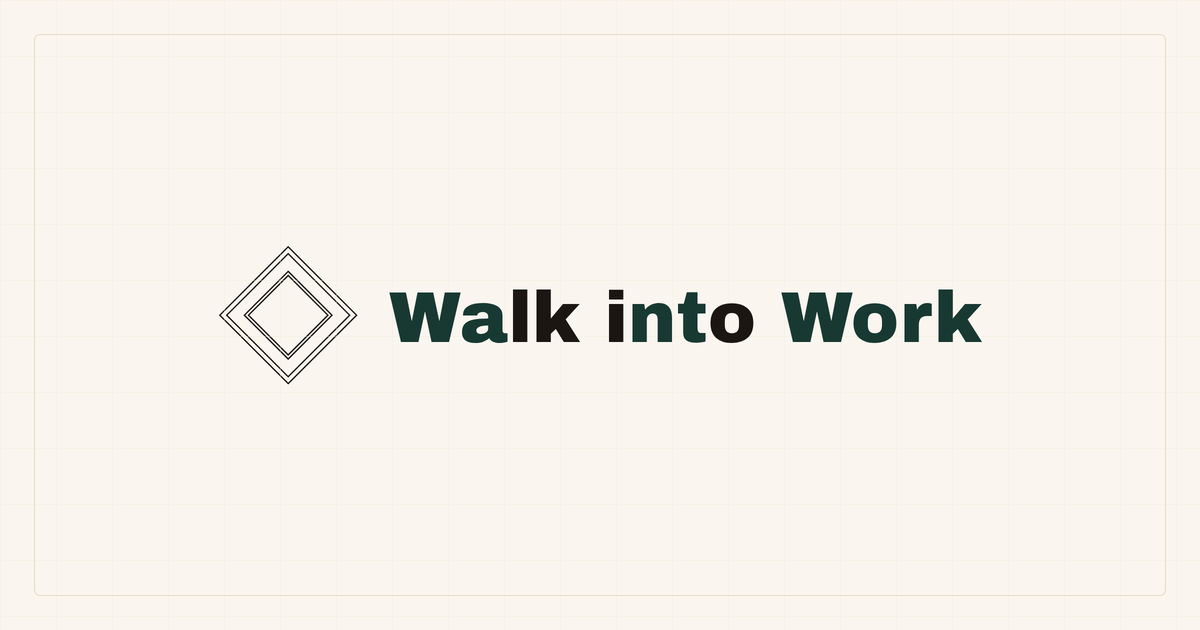
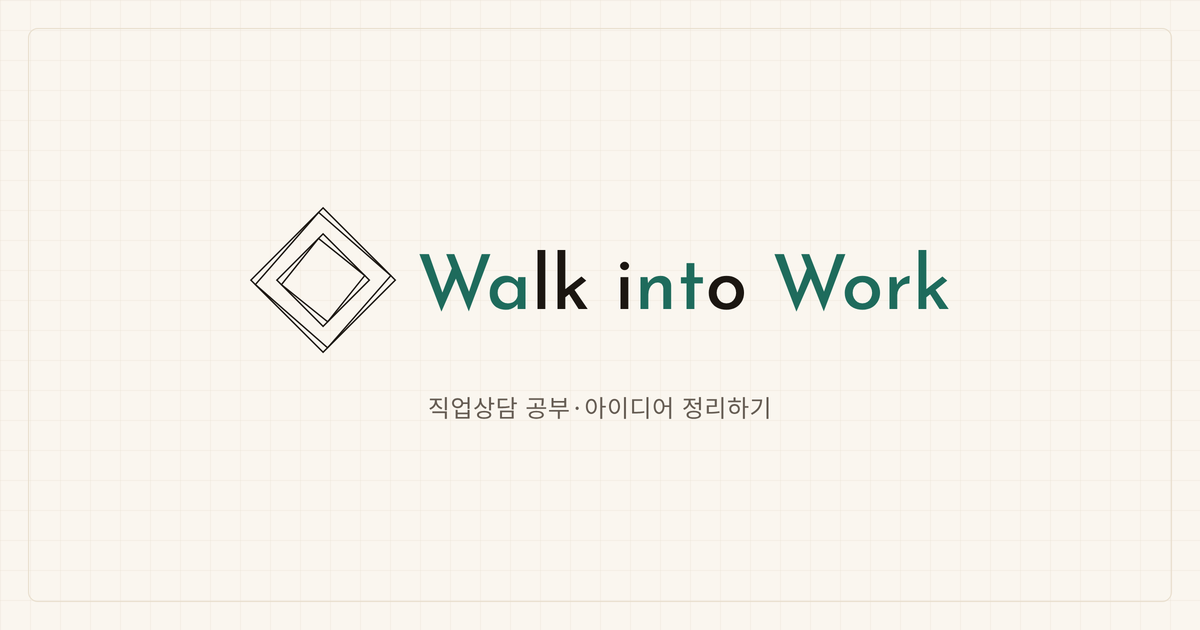
✨ Want Work 대문자화 + 링크 미리보기 카드 새 로고로 재생성
- 방치 모션 목표를 `Want work`에서 `Want Work`로. 소문자 w 겹(.cctt-gw)을 걷어 내고 Work의 대문자 W를 그대로 쓴다 — W·o·r·k가 한 덩어리로 -1.896em 옮겨 간다.
- 자리표를 Josefin Sans 500 폰트 단위(unitsPerEm 1000)로 다시 쟀다: W 1011 · a 592 · l 260 · k 508 · i 260 · n 561 · t 366 · o 550 · r 383 · 띄어쓰기 318, 커닝 W|a·W|o -93. Walk into Work 7.010em / Want Work 5.114em.
- 글자 칸 폭을 advance 그대로 em으로 못박아 inline-block 정수 px 반올림(37px에서 1.5px)을 없앴다.
- assets/og-card.png를 확정 로고(네 겹 마름모 + Josefin Sans 500, 0.26em)로 1200×630 재생성.

diff --git a/index.html b/index.html
@@ -166,20 +166,31 @@ body.a-root{background:var(--bg);color:var(--ink);font-family:var(--sans);font-s
 .cctt-word[data-run] .cctt-flow{visibility:hidden}
 .cctt-word[data-run] .cctt-glyphs{visibility:visible}
 .cctt-g{display:inline-block;position:relative;transform-origin:50% 50%}
-.cctt-sp{}   /* 띄어쓰기 칸 — 글자 그대로 둔다(빈 inline-block은 줄 상자를 0.145em 키운다) */
+.cctt-sp{display:inline-block;width:.318em}   /* 띄어쓰기 칸 — 글자 그대로 둔다(빈 inline-block은 줄 상자를 0.145em 키운다) */
+/* 글자 칸 폭을 폰트 advance 그대로 못박는다(em). 폭을 글자에 맡기면 브라우저가 inline-block 폭을 정수 px로
+   반올림해 37px 로고에서 자리가 1.5px까지 밀린다 — 방치 모션이 끝난 그림이 한 줄 텍스트와 어긋나 보이는 원인.
+   W 1011 · a 592 · l 260 · k 508 · i 260 · n 561 · t 366 · o 550 · r 383 (unitsPerEm 1000). */
+.cctt-g[data-k="0"],.cctt-g[data-k="8"]{width:1.011em}
+.cctt-g[data-k="1"]{width:.592em}
+.cctt-g[data-k="2"],.cctt-g[data-k="4"]{width:.26em}
+.cctt-g[data-k="3"],.cctt-g[data-k="11"]{width:.508em}
+.cctt-g[data-k="5"]{width:.561em}
+.cctt-g[data-k="6"]{width:.366em}
+.cctt-g[data-k="7"],.cctt-g[data-k="9"]{width:.55em}
+.cctt-g[data-k="10"]{width:.383em}
 .cctt-k1{margin-left:-.093em}   /* W|a */
 .cctt-k9{margin-left:-.093em}   /* W|o */
 .cctt-word[data-run] .cctt-g{will-change:transform,opacity}
-.cctt-gw{position:absolute;left:0;top:0;opacity:0}   /* Work의 W 자리에 겹쳐 두는 소문자 w — Want work로 변할 때만 나타난다 */
-/* 글자 칸(transform)과 잉크(opacity)를 나눈다 — 칸이 투명해지면 그 안의 w까지 함께 사라지기 때문이다. */
+/* `Want Work`는 대문자 W를 그대로 쓴다 — Work의 W를 소문자 w로 갈아 끼우던 겹(.cctt-gw)은 2026-11-21에 걷어 냈다.
+   W는 처음부터 끝까지 같은 글자라, 방치 모션은 글자가 사라지고 나타나는 대신 **자리만 옮겨 간다**. */
 /* 방치 모션의 조연 — 커서(①) · 빛줄기(②) · 취소선(⑩). 자리는 em으로 못박아 둔다(글자 크기를 따라간다). */
 .cctt-care,.cctt-beam,.cctt-str{position:absolute;left:0;top:0;opacity:0;pointer-events:none}
 .cctt-care{width:max(1.5px,.05em);height:.76em;top:.13em;background:currentColor;border-radius:1px}
 .cctt-beam{width:.42em;height:1.06em;top:-.03em;background:linear-gradient(90deg,transparent,var(--logo-hi) 50%,transparent)}
 .cctt-str{height:max(1px,.035em);top:.56em;background:currentColor;transform-origin:0 50%}
-.cctt-s1{left:1.50967em;width:.76769em}
-.cctt-s2{left:2.59519em;width:.25984em}
-.cctt-s3{left:3.78172em;width:.54983em}
+.cctt-s1{left:1.51em;width:.768em}    /* l · k */
+.cctt-s2{left:2.596em;width:.26em}    /* i */
+.cctt-s3{left:3.783em;width:.55em}    /* o */
 .a-right{display:flex;align-items:center;gap:8px;flex:none;margin-left:auto}
 .a-status{display:flex;align-items:center;gap:7px;font-size:13px;color:var(--muted);white-space:nowrap}
 .a-status .a-live-t{font-weight:650;letter-spacing:-.01em;color:var(--muted)}
@@ -818,7 +829,7 @@ html:not([data-jc-imm]) .a-seen-stamp:not([hidden]){animation:a-thunk .42s cubic
         <svg class="cctt-mark" viewBox="0 0 274 274" focusable="false"><g class="cctt-dg cctt-dg-o"><path d="M137 3.5L270.5 137L137 270.5L3.5 137Z"/><path d="M137 11.5L262.5 137L137 262.5L11.5 137Z" transform="rotate(-3.78 137 137)"/></g><g class="cctt-dg cctt-dg-i"><path d="M137 51.5L222.5 137L137 222.5L51.5 137Z"/><path d="M137 59.5L214.5 137L137 214.5L59.5 137Z" transform="rotate(-6.27 137 137)"/></g></svg>
         <!-- 한 줄 로고 — 멈춘 그림은 R4 그대로의 한 줄 텍스트(.cctt-flow)이고,
              방치 모션 동안에만 글자 한 칸짜리 겹(.cctt-glyphs)을 그 위에 세운다. -->
-        <span class="cctt-word"><span class="cctt-flow"><span class="cctt-hi">Wa</span>lk i<span class="cctt-hi">nt</span>o <span class="cctt-hi">Work</span></span><span class="cctt-glyphs"><span class="cctt-g cctt-hi" data-k="0">W</span><span class="cctt-g cctt-hi cctt-k1" data-k="1">a</span><span class="cctt-g" data-k="2">l</span><span class="cctt-g" data-k="3">k</span><span class="cctt-sp">&#160;</span><span class="cctt-g" data-k="4">i</span><span class="cctt-g cctt-hi" data-k="5">n</span><span class="cctt-g cctt-hi" data-k="6">t</span><span class="cctt-g" data-k="7">o</span><span class="cctt-sp">&#160;</span><span class="cctt-g" data-k="8"><span class="cctt-w1 cctt-hi">W</span><span class="cctt-gw cctt-hi">w</span></span><span class="cctt-g cctt-hi cctt-k9" data-k="9">o</span><span class="cctt-g cctt-hi" data-k="10">r</span><span class="cctt-g cctt-hi cctt-k11" data-k="11">k</span><span class="cctt-care"></span><span class="cctt-beam"></span><span class="cctt-str cctt-s1"></span><span class="cctt-str cctt-s2"></span><span class="cctt-str cctt-s3"></span></span></span>
+        <span class="cctt-word"><span class="cctt-flow"><span class="cctt-hi">Wa</span>lk i<span class="cctt-hi">nt</span>o <span class="cctt-hi">Work</span></span><span class="cctt-glyphs"><span class="cctt-g cctt-hi" data-k="0">W</span><span class="cctt-g cctt-hi cctt-k1" data-k="1">a</span><span class="cctt-g" data-k="2">l</span><span class="cctt-g" data-k="3">k</span><span class="cctt-sp">&#160;</span><span class="cctt-g" data-k="4">i</span><span class="cctt-g cctt-hi" data-k="5">n</span><span class="cctt-g cctt-hi" data-k="6">t</span><span class="cctt-g" data-k="7">o</span><span class="cctt-sp">&#160;</span><span class="cctt-g cctt-hi" data-k="8">W</span><span class="cctt-g cctt-hi cctt-k9" data-k="9">o</span><span class="cctt-g cctt-hi" data-k="10">r</span><span class="cctt-g cctt-hi cctt-k11" data-k="11">k</span><span class="cctt-care"></span><span class="cctt-beam"></span><span class="cctt-str cctt-s1"></span><span class="cctt-str cctt-s2"></span><span class="cctt-str cctt-s3"></span></span></span>
       </span>
     </a>
     <div class="a-right">
@@ -2474,27 +2485,28 @@ window.JC_FS_SKIP = ((window.JC_FS_SKIP ? window.JC_FS_SKIP + ',' : '') + '.cctt
     var A=spin(1,0),B=spin(-1,80);
     return {defs:[[og,A[0],A[1]],[ig,B[0],B[1]]]};
   }
-  /* ================== 글자 모션 — `Walk into Work` ↔ `Want work` (2026-11-21 R5) ==================
+  /* ================== 글자 모션 — `Walk into Work` ↔ `Want Work` (2026-11-21 R5) ==================
      마름모 방치 모션 열 가지와 1:1로 짝을 이룬다 — 마름모가 움직이는 그 순간, 같은 play(i)에서
      같은 프레임에 시작해 4.6초 안에 다 돌아온다(방치 유도 data-st="hint"가 5.0초라 0.4초 여유).
-       등장 0~1.75초 · 머묾 1.75~2.95초(Want work를 읽는 시간) · 되돌아옴 2.95~4.4초.
+       등장 0~1.75초 · 머묾 1.75~2.95초(Want Work를 읽는 시간) · 되돌아옴 2.95~4.4초.
      · 되돌아오는 구간은 등장 구간을 **시간만 뒤집어** 만든다 — 같은 곡선을 반대로 쓰므로 손맛이 같고,
        저절로 「원래 자리·원래 글자」로 끝난다. 끝나면 애니메이션을 지우니 잔상이 남지 않는다.
-     · 자리표는 모두 em이다(Josefin Sans 500을 DOM에서 1000px로 재어 1000으로 나눈 값). 글자 크기가 어디서든 같은 비례를
-       따르고, 대문자 W의 왼쪽은 두 글자 모두 0em이라 **절대 움직이지 않는다**.
+     · 자리표는 모두 em이다(Josefin Sans 500의 폰트 단위 — unitsPerEm 1000 — 를 그대로 1000으로 나눈 값이라 반올림이 없다:
+       W 1011 · a 592 · l 260 · k 508 · i 260 · n 561 · t 366 · o 550 · r 383 · 띄어쓰기 318, 커닝 `W|a`·`W|o` −93).
+       글자 크기가 어디서든 같은 비례를 따르고, 맨 앞 대문자 W의 왼쪽은 두 줄 모두 0em이라 **절대 움직이지 않는다**.
+     · 목표 `Want Work`는 대문자 W를 그대로 둔다 — `Work`의 W·o·r·k가 한 덩어리로 −1.896em 옮겨 가고 l·k·i·o만 사라진다.
      · 움직이는 값은 transform·opacity뿐 — 레이아웃(left·width·margin)은 애니메이션하지 않는다. */
-  var W_RX=[0,.91783,1.50967,1.76952,2.27736,2.59519,2.85503,3.41587,3.78172,4.33155,4.64939,5.56723,6.11708,6.49991];  /* Walk into Work 글자 왼쪽(em) */
-  var W_TX=[0,.91783,1.50967,2.07052,2.43636,2.75419,3.41903,3.96887,4.35172];                                          /* Want work 글자 왼쪽(em) */
-  var W_W=7.00777,W_TW=4.85956;                            /* 두 줄 전체 폭(em) */
+  var W_RX=[0,.918,1.51,1.77,2.278,2.596,2.856,3.417,3.783,4.333,4.651,5.569,6.119,6.502];  /* Walk into Work 글자 왼쪽(em) */
+  var W_TX=[0,.918,1.51,2.071,2.437,2.755,3.673,4.223,4.606];                                        /* Want Work 글자 왼쪽(em) */
+  var W_W=7.01,W_TW=5.114;                                 /* 두 줄 전체 폭(em) */
   var W_IDX=[0,1,2,3,5,6,7,8,10,11,12,13];                 /* span 차례 → W_RX 자리 */
   var W_TO=[0,1,-1,-1,-1,2,3,-1,5,6,7,8];                  /* span 차례 → W_TX 자리(음수 = 지워지는 글자) */
-  var W_DX=[0,0,0,0,0,-1.34536,-1.34535,0,-1.8952,-2.1482,-2.14821,-2.14819];  /* 옮겨 갈 거리(em) */
+  var W_DX=[0,0,0,0,0,-1.346,-1.346,0,-1.896,-1.896,-1.896,-1.896];  /* 옮겨 갈 거리(em) */
   var W_E=1750,W_H=2950,W_X1=4400,W_T=4600;
   var wWord=document.querySelector('.cctt-word'),wG={},wOv={};
   if(wWord){
     var wN=wWord.querySelectorAll('.cctt-g'),wi0;
     for(wi0=0;wi0<wN.length;wi0++)wG[wN[wi0].getAttribute('data-k')]=wN[wi0];
-    wG.w=wWord.querySelector('.cctt-gw');wG.W=wWord.querySelector('.cctt-w1');
     wOv.care=wWord.querySelector('.cctt-care');wOv.beam=wWord.querySelector('.cctt-beam');
     wOv.s1=wWord.querySelector('.cctt-s1');wOv.s2=wWord.querySelector('.cctt-s2');wOv.s3=wWord.querySelector('.cctt-s3');
   }
@@ -2534,43 +2546,29 @@ window.JC_FS_SKIP = ((window.JC_FS_SKIP ? window.JC_FS_SKIP + ',' : '') + '.cctt
   }
   /* 되돌아오는 때 — 등장 시각 t를 머묾 끝 기준으로 뒤집은 시각 */
   function wBack(t){return W_H+(1-t/W_E)*(W_X1-W_H);}
-  /* opacity만 따로 — Work의 W가 w로 바뀌는 자리(움직임은 글자 칸이 맡는다) */
-  function wHide(t0,t1){
-    return [{offset:0,opacity:1},{offset:+(t0/W_T).toFixed(5),opacity:1,easing:'cubic-bezier(.4,0,.7,1)'},
-      {offset:+(t1/W_T).toFixed(5),opacity:0},{offset:+(wBack(t1)/W_T).toFixed(5),opacity:0,easing:'cubic-bezier(.4,0,.7,1)'},
-      {offset:+(wBack(t0)/W_T).toFixed(5),opacity:1},{offset:1,opacity:1}];
-  }
-  function wShow(t0,t1){
-    return [{offset:0,opacity:0},{offset:+(t0/W_T).toFixed(5),opacity:0,easing:'cubic-bezier(.4,0,.7,1)'},
-      {offset:+(t1/W_T).toFixed(5),opacity:1},{offset:+(wBack(t1)/W_T).toFixed(5),opacity:1,easing:'cubic-bezier(.4,0,.7,1)'},
-      {offset:+(wBack(t0)/W_T).toFixed(5),opacity:0},{offset:1,opacity:0}];
-  }
   /* 남는 글자 — 지워지는 글자가 사라진 뒤 목표 자리로 미끄러진다 */
   function wMove(i,from,to,fs,e){
     return [wK(0,'none',1),wK(from,'none',1),wK(to,wTx(W_DX[i],fs),1,e||'cubic-bezier(.5,0,.2,1)')];
   }
   function wOrg(){var o={},i;for(i=0;i<arguments.length;i++)o[arguments[i]]='0 50%';return o;}
   var WPAT=[
-  /* ① 반대 회전 ↔ 커서 백스페이스 — 커서가 오른쪽부터 톡톡 지우고 Want work를 다시 쳐 넣는다 */
+  /* ① 반대 회전 ↔ 커서 백스페이스 — 커서가 오른쪽부터 톡톡 지우고 Want Work를 다시 쳐 넣는다 */
   function(fs){
     var g={},fade={},del=[11,10,9,8,7,6,5,4,3,2],dt={},i,kd,f,tg,
-        typ=[5,6,'w',9,10,11],tt={},u=1080,t=70;
+        typ=[5,6,8,9,10,11],tt={},u=1080,t=70;
     for(i=0;i<del.length;i++){dt[del[i]]=t;t+=102;}
     for(i=0;i<typ.length;i++){tt[typ[i]]=u;u+=96;}
     for(i=0;i<12;i++){
       kd=dt[i];tg=wTx(W_DX[i],fs);
       if(kd==null){g[i]=[wK(0,'none',1)];continue;}
-      if(i===8){g[8]=[wK(0,'none',null),wK(500,'none',null),wK(640,tg,null)];continue;}
       f=[wK(0,'none',1),wK(kd,'none',1,'cubic-bezier(.4,0,.6,1)'),wK(kd+100,'none',0)];
       if(tt[i]!=null)f.push(wK(kd+104,tg,0),wK(tt[i],tg+' scale(.86)',0,'cubic-bezier(.2,.9,.3,1)'),wK(tt[i]+104,tg,1));
       g[i]=f;
     }
-    fade.W=wHide(dt[8],dt[8]+100);
-    fade.w=wShow(tt.w,tt.w+104);
     /* 커서 — 지울 때는 오른쪽→왼쪽, 쓸 때는 왼쪽→오른쪽 (칸을 뛰어 넘는다) */
     var cj=[[0,W_W]],px,cf=[],co;
     for(i=0;i<del.length;i++)cj.push([dt[del[i]],W_RX[W_IDX[del[i]]]]);
-    cj.push([tt[5],W_TX[3]],[tt[6],W_TX[4]],[tt.w,W_TX[5]],[tt[9],W_TX[6]],[tt[10],W_TX[7]],[tt[11],W_TX[8]],[tt[11]+100,W_TW]);
+    cj.push([tt[5],W_TX[3]],[tt[6],W_TX[4]],[tt[8],W_TX[5]],[tt[9],W_TX[6]],[tt[10],W_TX[7]],[tt[11],W_TX[8]],[tt[11]+100,W_TW]);
     for(i=0;i<cj.length;i++){
       px=wPx(cj[i][1],fs);
       cf.push({offset:+(cj[i][0]/W_T).toFixed(5),transform:'translateX('+px+'px)',easing:i<cj.length-1?'steps(1,end)':'linear'});
@@ -2602,8 +2600,6 @@ window.JC_FS_SKIP = ((window.JC_FS_SKIP ? window.JC_FS_SKIP + ',' : '') + '.cctt
       }
     }
     g[8]=[wK(0,'none',null),wK(700,'none',null),wK(1120,wTx(W_DX[8],fs),null)];
-    fade.W=wHide(1000,1100);
-    fade.w=wShow(1100,1200);
     var bf=[{offset:0,transform:'translateX('+wPx(-.9,fs)+'px)',opacity:0},
       {offset:+(160/W_T).toFixed(5),opacity:.5},
       {offset:+(820/W_T).toFixed(5),opacity:.5},
@@ -2613,9 +2609,9 @@ window.JC_FS_SKIP = ((window.JC_FS_SKIP ? window.JC_FS_SKIP + ',' : '') + '.cctt
       {offset:1,transform:'translateX('+wPx(W_W,fs)+'px)',opacity:0}];
     return {g:g,fade:fade,ov:{beam:bf},org:wOrg(2,3,4,7)};
   },
-  /* ③ 호흡 교차 ↔ 공항 플립 보드 — 박자마다 글자 칸이 찰칵찰칵 넘어가며 Want work로 바뀐다 */
+  /* ③ 호흡 교차 ↔ 공항 플립 보드 — 박자마다 글자 칸이 찰칵찰칵 넘어가며 Want Work로 바뀐다 */
   function(fs){
-    var g={},fade={},i,s0,sw,t0,t1;
+    var g={},fade={},i,s0,t0,t1;
     function flip(s0,op){
       return [wK(s0,'translateX(0px) rotateX(0deg)',op,'cubic-bezier(.4,0,.9,.6)'),
         wK(s0+22,'translateX(0px) rotateX(-90deg) scaleY(.62)',op==null?null:.6,'linear'),
@@ -2636,15 +2632,13 @@ window.JC_FS_SKIP = ((window.JC_FS_SKIP ? window.JC_FS_SKIP + ',' : '') + '.cctt
            wK(t1,wTx(W_DX[i],fs),1)]);
       }
     }
-    sw=60+8*42;
+    var sw=60+8*42;
     t0=sw+100;t1=Math.min(1450,t0+330);
     g[8]=[wK(0,'none',null)].concat(flip(sw,null),
       [wK(t0,'translateX(0px) rotateX(0deg) scaleY(1)',null,'cubic-bezier(.5,0,.2,1)'),wK(t1,wTx(W_DX[8],fs),null)]);
-    fade.W=wHide(sw+30,sw+80);
-    fade.w=wShow(sw+30,sw+80);
     return {g:g,fade:fade,org:wOrg(2,3,4,7)};
   },
-  /* ④ 엇박 반바퀴 ↔ 네온사인 오프 — lk·i·o의 불이 지직 꺼지고 Want work만 살아남는다 */
+  /* ④ 엇박 반바퀴 ↔ 네온사인 오프 — lk·i·o의 불이 지직 꺼지고 Want Work만 살아남는다 */
   function(fs){
     var g={},fade={},i,off=[2,3,4,7],ot={},t=90;
     for(i=0;i<off.length;i++){ot[off[i]]=t;t+=55;}
@@ -2663,8 +2657,6 @@ window.JC_FS_SKIP = ((window.JC_FS_SKIP ? window.JC_FS_SKIP + ',' : '') + '.cctt
       }
     }
     g[8]=[wK(0,'none',null),wK(480,'none',null),wK(1050,wTx(W_DX[8],fs),null)];
-    fade.W=wHide(900,1010);
-    fade.w=wShow(1010,1120);
     return {g:g,fade:fade};
   },
   /* ⑤ 위아래 결합 ↔ 엘리베이터 스왑 — lk·i·o는 위로 올라가 사라지고, nt·work는 살짝 내려왔다 올라와 앉는다 */
@@ -2687,8 +2679,6 @@ window.JC_FS_SKIP = ((window.JC_FS_SKIP ? window.JC_FS_SKIP + ',' : '') + '.cctt
     }
     g[8]=[wK(0,'none',null),wK(520,'translateY('+up+'px)',null,'cubic-bezier(.5,0,.2,1)'),
       wK(880,wTx(W_DX[8],fs)+' translateY('+wPx(-.08,fs)+'px)',null,'cubic-bezier(.2,.9,.3,1)'),wK(1040,wTx(W_DX[8],fs),null)];
-    fade.W=wHide(900,1010);
-    fade.w=wShow(1010,1120);
     return {g:g,fade:fade,leap:true};
   },
   /* ⑥ 획 그리기 ↔ 커닝 아코디언 — lk·i·o의 가로 폭이 0으로 접히며 글자가 압축된다
@@ -2706,8 +2696,6 @@ window.JC_FS_SKIP = ((window.JC_FS_SKIP ? window.JC_FS_SKIP + ',' : '') + '.cctt
       }
     }
     g[8]=[wK(0,'none',null),wK(220,'none',null,EZ),wK(880,wTx(W_DX[8],fs),null,EZ)];
-    fade.W=wHide(820,900);
-    fade.w=wShow(900,1010);
     return {g:g,fade:fade,org:wOrg(2,3,4,7)};
   },
   /* ⑦ 물결 ↔ 웨이브 콜랩스 — 물결이 지나간 자리의 lk·i·o는 아래로 가라앉고 나머지는 파도를 타고 합류 */
@@ -2731,8 +2719,6 @@ window.JC_FS_SKIP = ((window.JC_FS_SKIP ? window.JC_FS_SKIP + ',' : '') + '.cctt
     var s8=Math.max(220,hx[4]+40);
     g[8]=[wK(0,'none',null),wK(s8,'none',null,'cubic-bezier(.4,0,.6,1)'),
       wK(s8+330,wTx(W_DX[8],fs)+' translateY('+wPx(-.2,fs)+'px)',null,'cubic-bezier(.3,.9,.4,1)'),wK(s8+560,wTx(W_DX[8],fs),null)];
-    fade.W=wHide(s8+700,s8+820);
-    fade.w=wShow(s8+820,s8+940);
     return {g:g,fade:fade};
   },
   /* ⑧ 미세 진동 ↔ 털어내기 — 글자가 부르르 떨다 헐거워진 lk·i·o만 후두둑 떨어진다 */
@@ -2754,8 +2740,6 @@ window.JC_FS_SKIP = ((window.JC_FS_SKIP ? window.JC_FS_SKIP + ',' : '') + '.cctt
     }
     g[8]=[wK(0,'none',null),shake(1),shake(2),shake(3),shake(4),shake(5),wK(520,'none',null,'linear'),
       wK(700,'none',null,'cubic-bezier(.5,0,.2,1)'),wK(1320,wTx(W_DX[8],fs),null)];
-    fade.W=wHide(1180,1300);
-    fade.w=wShow(1300,1420);
     return {g:g,fade:fade,leap:true};
   },
   /* ⑨ 통통 착지 ↔ 마그네틱 홉 — 빈자리를 향해 nt·work가 가볍게 튀어 올랐다 자석처럼 착지 */
@@ -2781,8 +2765,6 @@ window.JC_FS_SKIP = ((window.JC_FS_SKIP ? window.JC_FS_SKIP + ',' : '') + '.cctt
       wK(t8+200,wTx(W_DX[8],fs)+' translateY('+wPx(-.52,fs)+'px)',null,'cubic-bezier(.4,0,.8,1)'),
       wK(t8+380,wTx(W_DX[8],fs)+' translateY(0px) scale(1.06,.94)',null,'cubic-bezier(.2,.9,.3,1)'),
       wK(t8+470,wTx(W_DX[8],fs),null,'cubic-bezier(.2,.9,.3,1)')];
-    fade.W=wHide(t8+330,t8+430);
-    fade.w=wShow(t8+430,t8+540);
     return {g:g,fade:fade,leap:true};
   },
   /* ⑩ 표창 회전 ↔ 취소선 스킵 — 얇은 취소선이 휙 그어지고 lk·i·o가 접혀 사라진다 */
@@ -2809,8 +2791,6 @@ window.JC_FS_SKIP = ((window.JC_FS_SKIP ? window.JC_FS_SKIP + ',' : '') + '.cctt
       }
     }
     g[8]=[wK(0,'none',null),wK(700,'none',null,'cubic-bezier(.5,0,.2,1)'),wK(1400,wTx(W_DX[8],fs),null)];
-    fade.W=wHide(1120,1290);
-    fade.w=wShow(1290,1410);
     return {g:g,fade:fade,ov:{s1:line(80,190),s2:line(150,150),s3:line(220,190)},org:wOrg(2,3,4,7)};
   }];
   /* 무늬 하나를 건다 — 마름모와 같은 프레임. 끝나면(또는 settle) wStop이 인라인 값을 지운다. */
